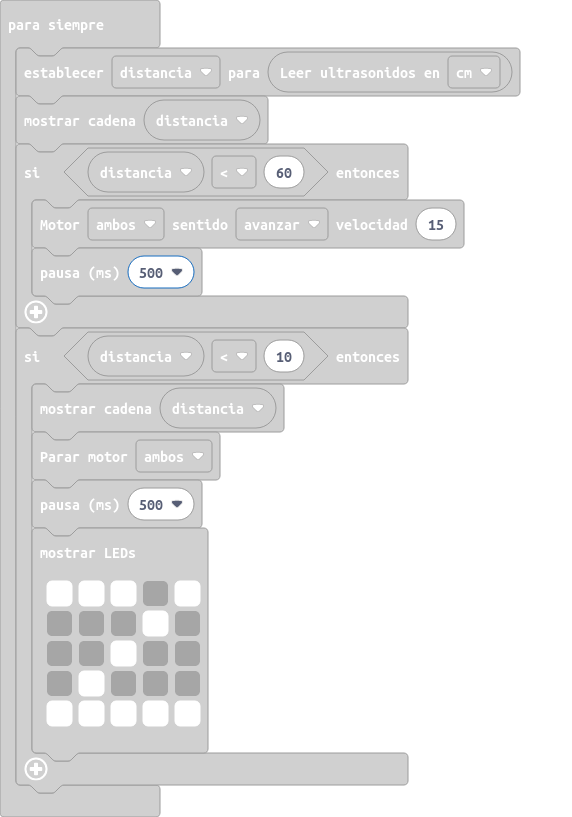
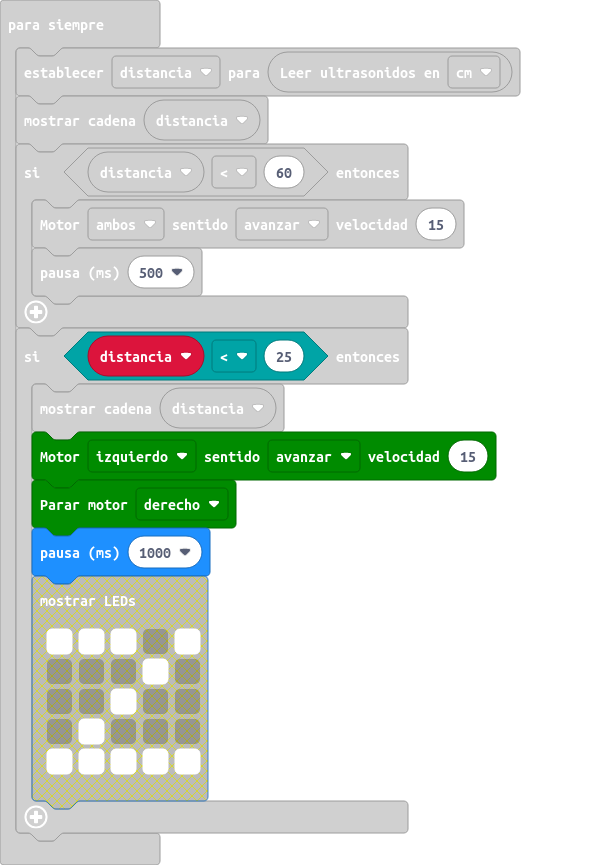
Actualizar main.blocks, main.ts

Changed region(s): [[0.0297, 0.0, 0.9213, 1.0]]

diff --git a/main.ts b/main.ts
@@ -6,16 +6,10 @@ basic.forever(function () {
         maqueen.motorRun(maqueen.Motors.All, maqueen.Dir.CW, 15)
         basic.pause(500)
     }
-    if (distancia < 10) {
+    if (distancia < 25) {
         basic.showString("" + (distancia))
-        maqueen.motorStop(maqueen.Motors.All)
-        basic.pause(500)
-        basic.showLeds(`
-            # # # . #
-            . . . # .
-            . . # . .
-            . # . . .
-            # # # # #
-            `)
+        maqueen.motorRun(maqueen.Motors.M1, maqueen.Dir.CW, 15)
+        maqueen.motorStop(maqueen.Motors.M2)
+        basic.pause(1000)
     }
 })
